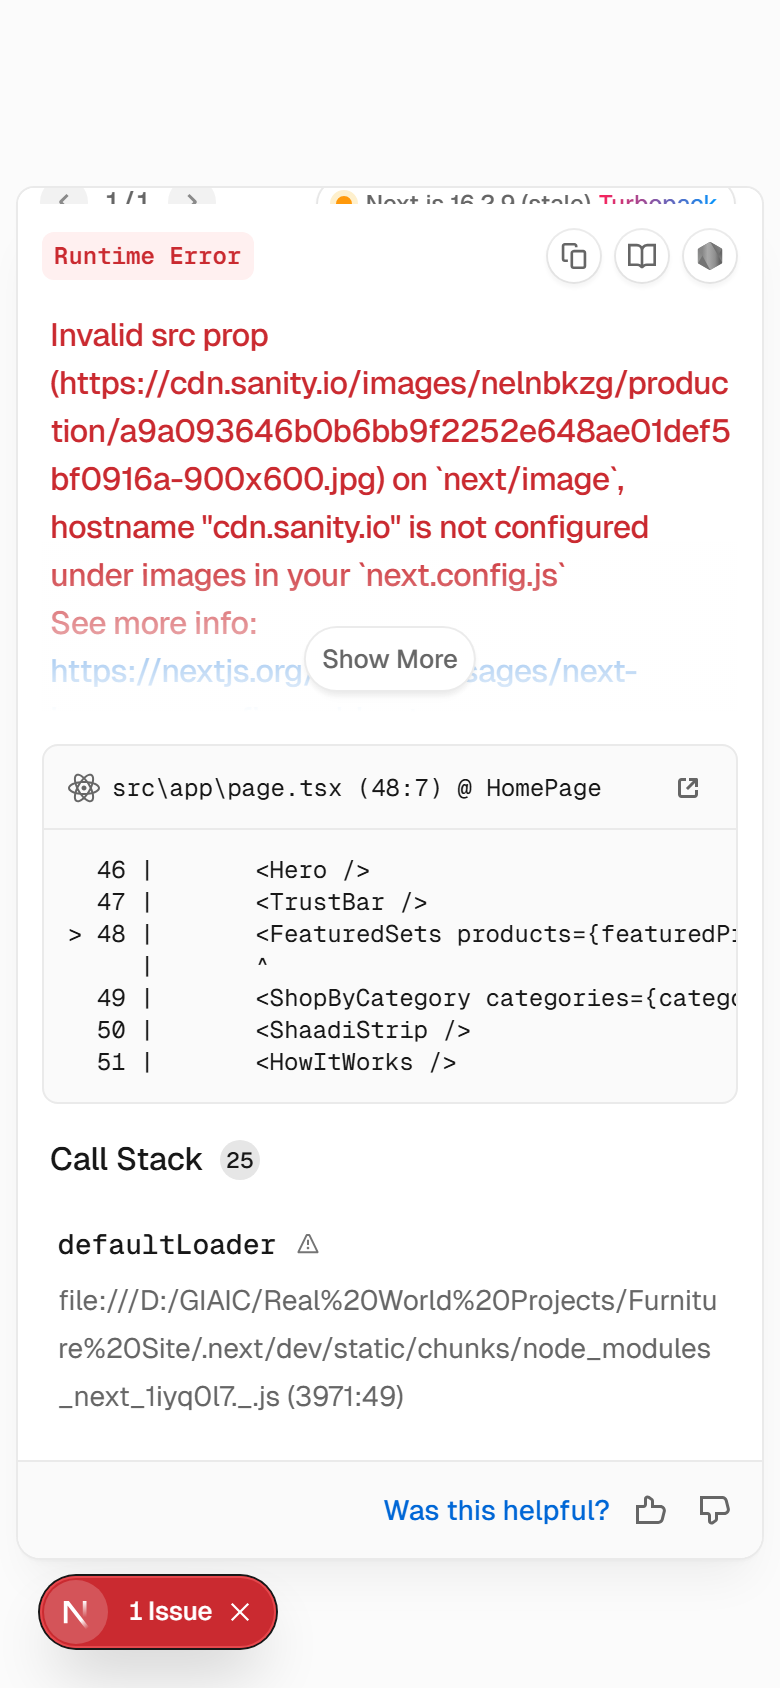
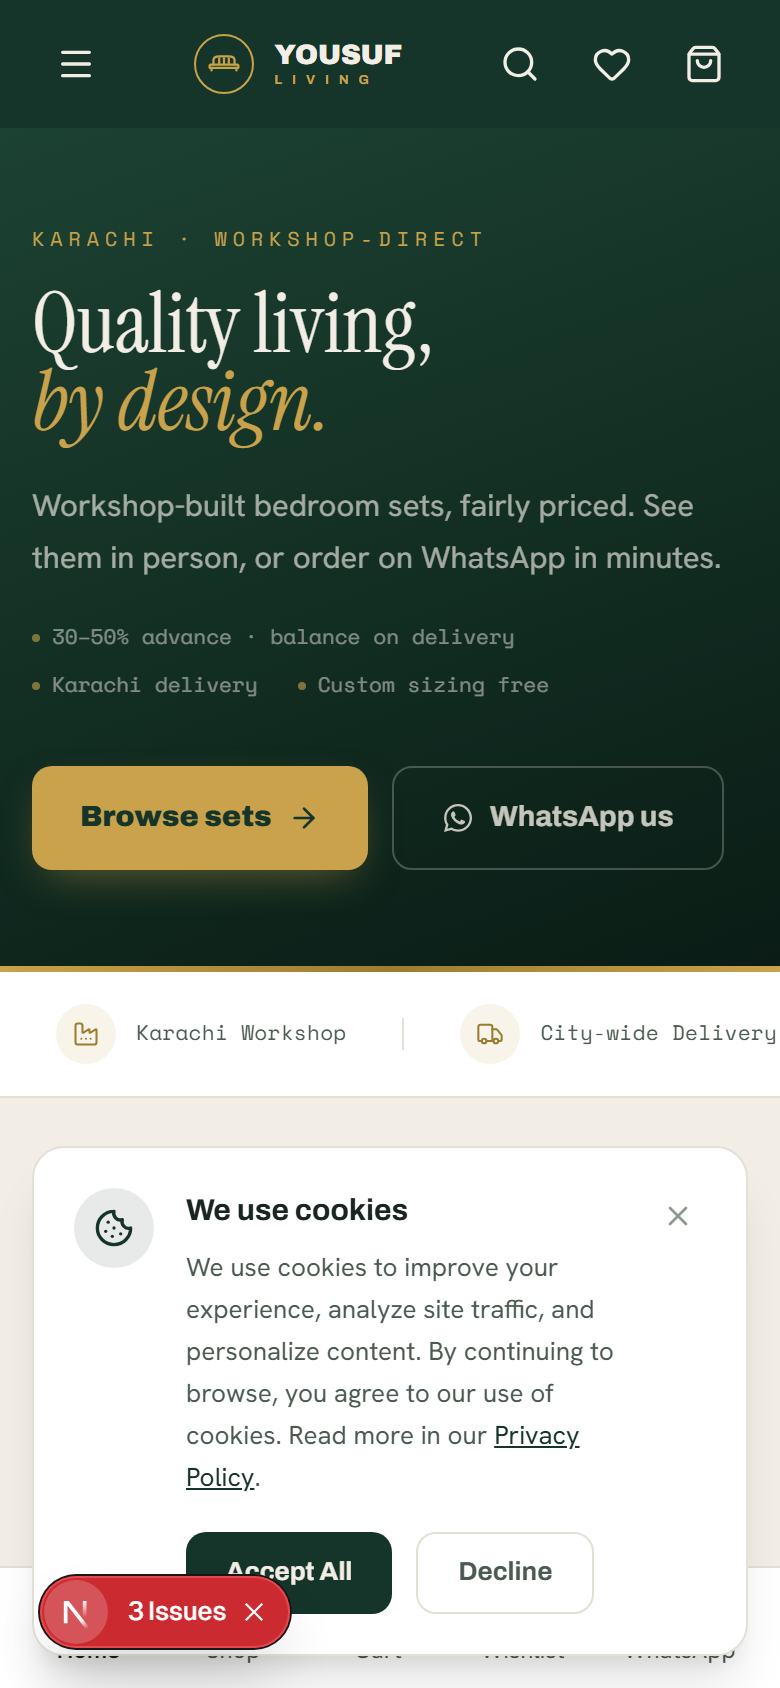
Fix nested <a> error in ProductCard + sanity/image-url deprecation
- Changed nested Link and anchor inside product card outer Link
  to buttons with router.push / window.open
- Updated @sanity/image-url import to named export
  createImageUrlBuilder to eliminate deprecation warning
- Regenerated PWA screenshots with Playwright

diff --git a/src/components/product/product-card.tsx b/src/components/product/product-card.tsx
@@ -5,6 +5,7 @@
 "use client"
 
 import Link from "next/link"
+import { useRouter } from "next/navigation"
 import Image from "next/image"
 import { useState, useSyncExternalStore } from "react"
 import { Heart, ShoppingBag, ShoppingCart, Star } from "lucide-react"
@@ -32,6 +33,7 @@ interface ProductCardProps {
 }
 
 export function ProductCard({ product, className }: ProductCardProps) {
+  const router = useRouter()
   const tone = categoryToneMap[product.category.slug] ?? "linear-gradient(150deg,#3A6B57,#16352A)"
   const price = formatPrice(product.salePrice ?? product.basePrice)
   const oldPrice = product.salePrice ? formatPrice(product.basePrice) : null
@@ -180,28 +182,32 @@ export function ProductCard({ product, className }: ProductCardProps) {
               </button>
 
               {/* WhatsApp */}
-              <a
-                href={waHref}
-                target="_blank"
-                rel="noopener noreferrer"
-                onClick={(e) => e.stopPropagation()}
+              <button
+                onClick={(e) => {
+                  e.preventDefault()
+                  e.stopPropagation()
+                  window.open(waHref, "_blank", "noopener,noreferrer")
+                }}
                 aria-label="Enquire on WhatsApp"
                 className="flex flex-1 flex-col items-center gap-1 py-3.5 transition-colors hover:bg-white/8 focus-visible:bg-white/10"
               >
                 <FaWhatsapp className="h-4 w-4 text-bone/80 transition-transform hover:scale-110" aria-hidden="true" />
                 <span className="font-mono text-[8px] uppercase tracking-[1px] text-bone/50">Ask</span>
-              </a>
+              </button>
 
               {/* Buy now */}
-              <Link
-                href={`/checkout?product=${product.slug}`}
-                onClick={(e) => e.stopPropagation()}
+              <button
+                onClick={(e) => {
+                  e.preventDefault()
+                  e.stopPropagation()
+                  router.push(`/checkout?product=${product.slug}`)
+                }}
                 aria-label="Buy now"
                 className="flex flex-1 flex-col items-center gap-1 bg-gold/15 py-3.5 transition-colors hover:bg-gold/28 focus-visible:bg-gold/30"
               >
                 <ShoppingCart className="h-4 w-4 stroke-gold transition-transform hover:scale-110" strokeWidth={2} aria-hidden="true" />
                 <span className="font-mono text-[8px] uppercase tracking-[1px] text-gold/80">Buy now</span>
-              </Link>
+              </button>
             </div>
           </div>
 

diff --git a/src/lib/sanity.ts b/src/lib/sanity.ts
@@ -1,5 +1,5 @@
 import { createClient } from "@sanity/client"
-import imageUrlBuilder from "@sanity/image-url"
+import { createImageUrlBuilder } from "@sanity/image-url"
 import type { SanityImageSource } from "@sanity/image-url"
 
 const projectId = process.env.NEXT_PUBLIC_SANITY_PROJECT_ID!
@@ -22,7 +22,7 @@ export const writeClient = createClient({
   token: process.env.SANITY_API_WRITE_TOKEN,
 })
 
-const builder = imageUrlBuilder(readClient)
+const builder = createImageUrlBuilder(readClient)
 
 export function urlFor(source: SanityImageSource) {
   return builder.image(source)
